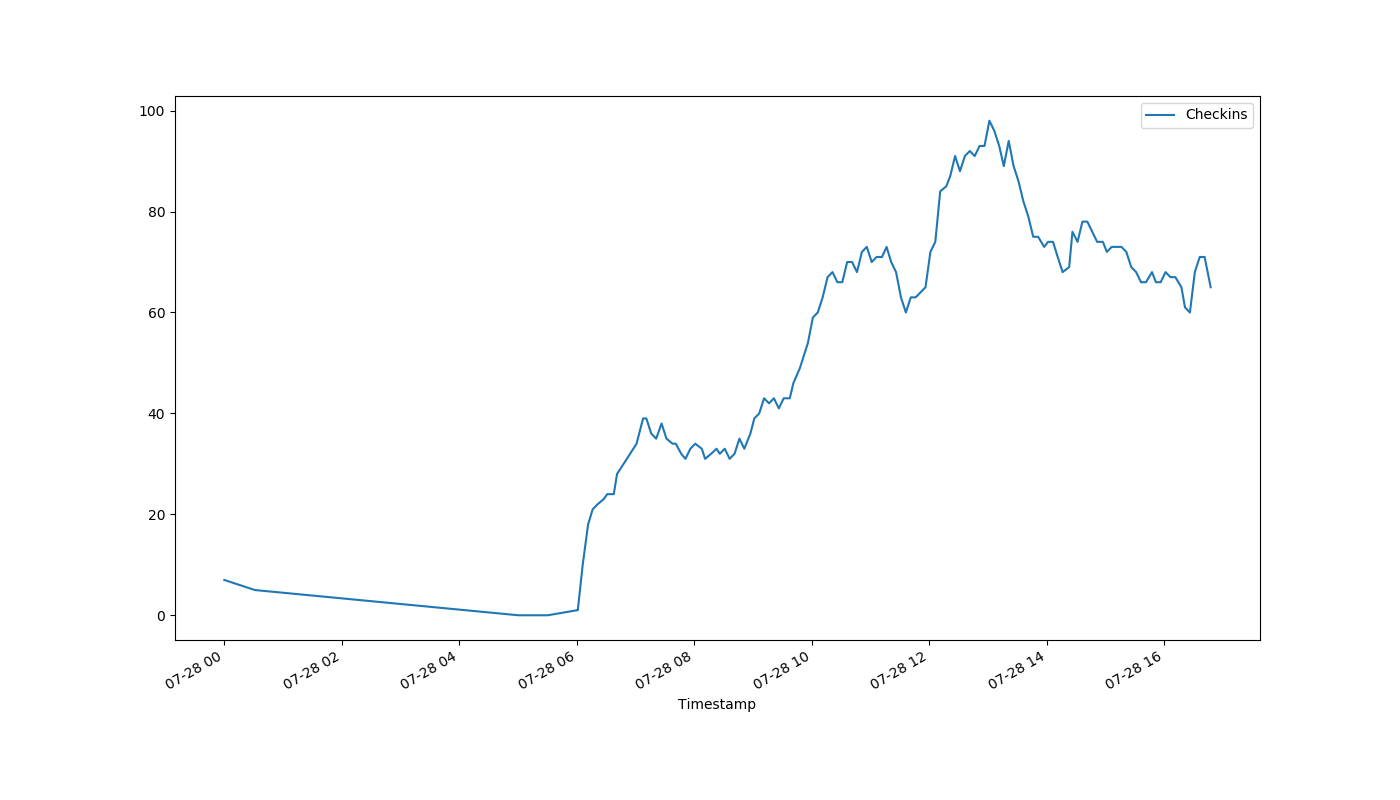
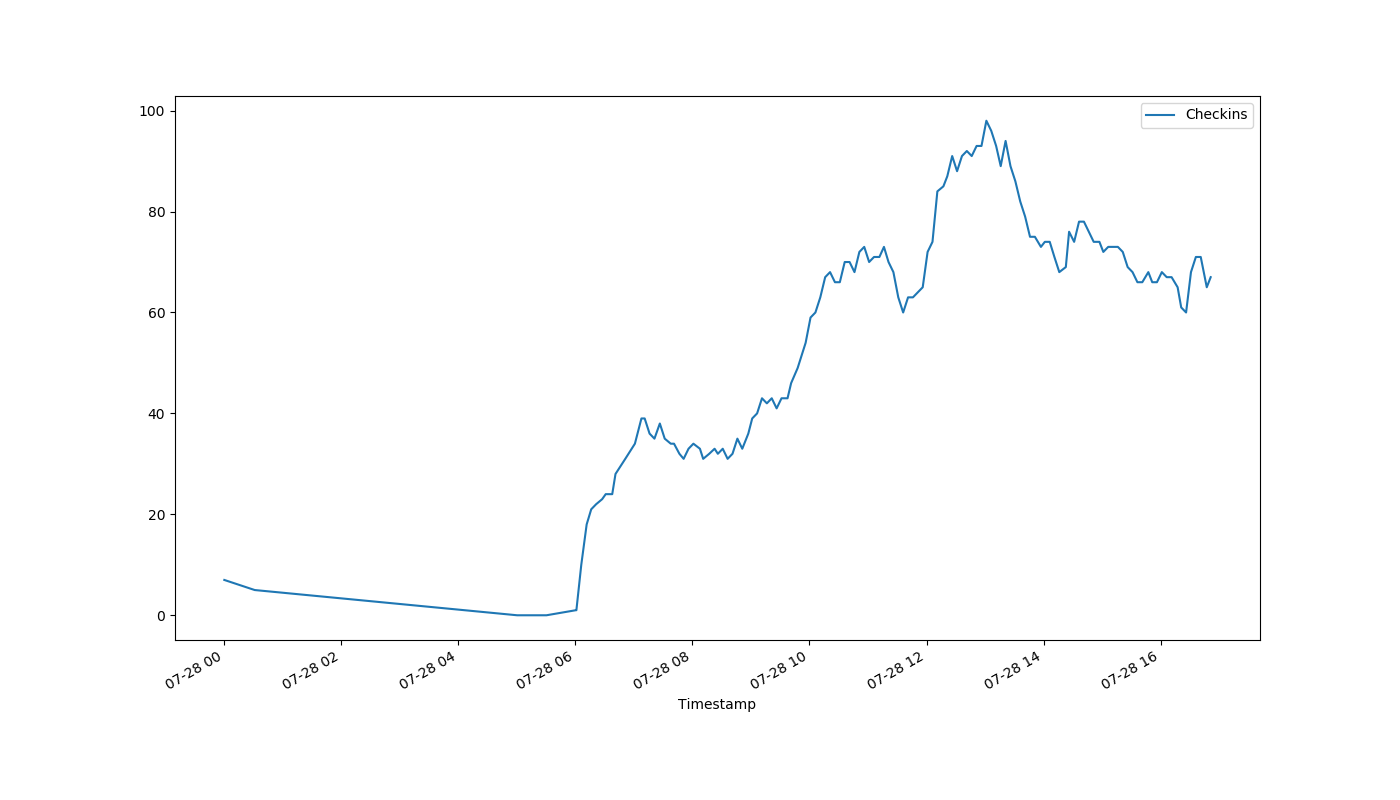
auto-Jul-28-16:53:18

diff --git a/index.html b/index.html
@@ -1,1 +1,1 @@
-<!DOCTYPE html><html><head><meta http-equiv="refresh" content="30"><link rel='stylesheet' href='holmcurrent.css'></head><body><p id='count'>65</p><div id='graph-wrap'><img id='graph' src='holmgraph-Jul-28.png'></div><p id='updated'>Last updated 16:48:12 / 16:47:13</p></body></html>
+<!DOCTYPE html><html><head><meta http-equiv="refresh" content="30"><link rel='stylesheet' href='holmcurrent.css'></head><body><p id='count'>67</p><div id='graph-wrap'><img id='graph' src='holmgraph-Jul-28.png'></div><p id='updated'>Last updated 16:52:12 / 16:51:13</p></body></html>
